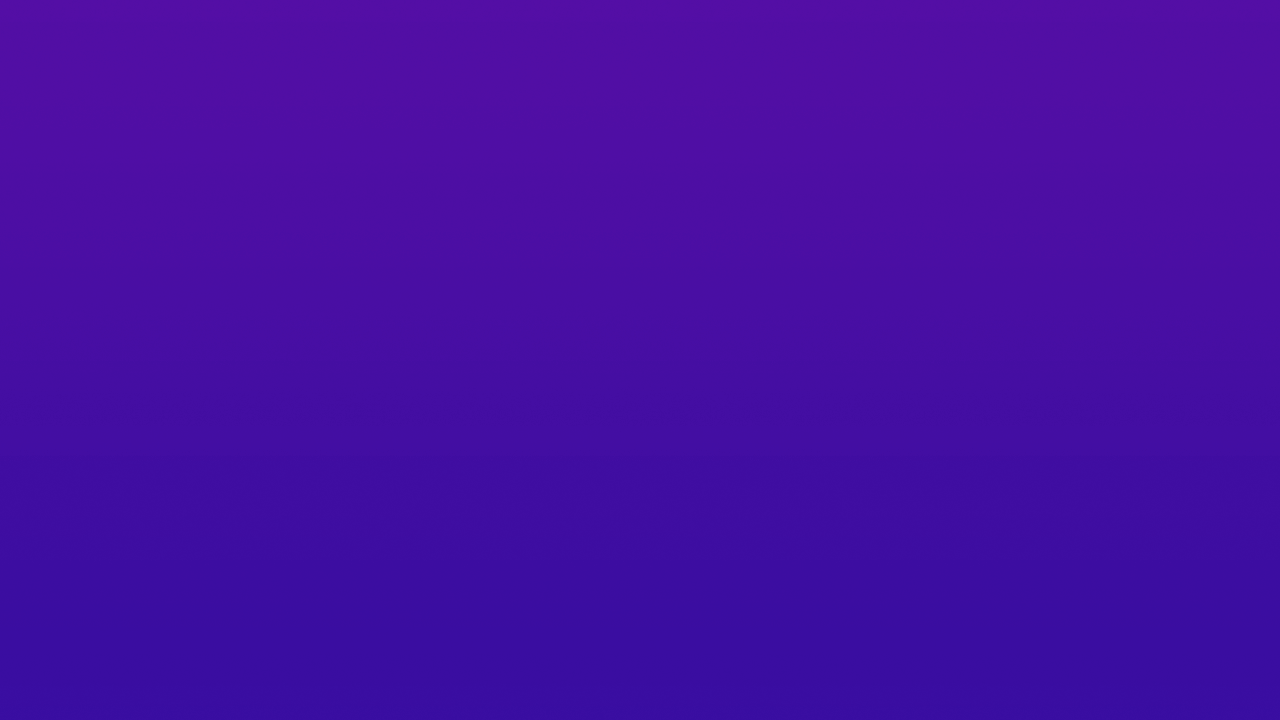
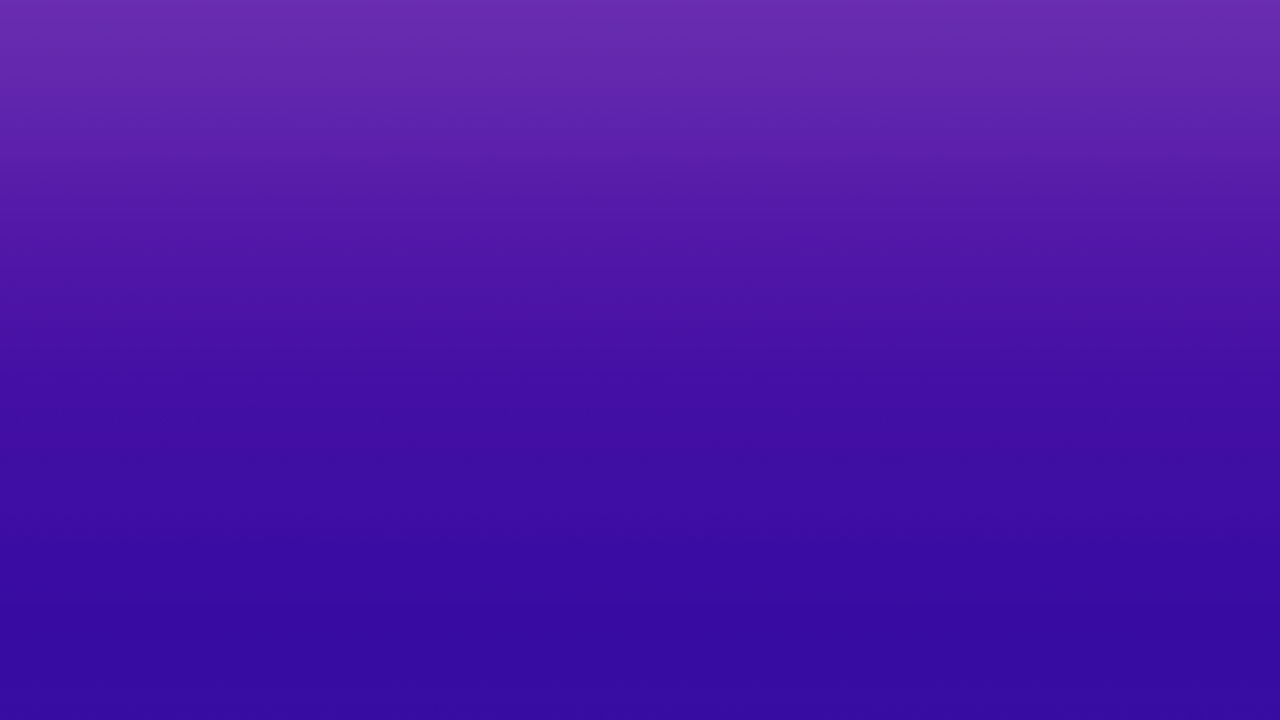
background day/night graphics improvements

Changed region(s): [[0.0, 0.0, 1.0, 0.1222]]

diff --git a/js/main.js b/js/main.js
@@ -76,7 +76,7 @@ function create() {
 
 	var fg = game.add.image(0, 0, 'foreground_dark');
 	fg.fixedToCamera = true;
-	fg.blendMode = 2;
+	fg.blendMode = Phaser.blendModes.MULTIPLY;
 	fg.alpha = 0;
 	darkerOverlays.push(fg);
 	 
